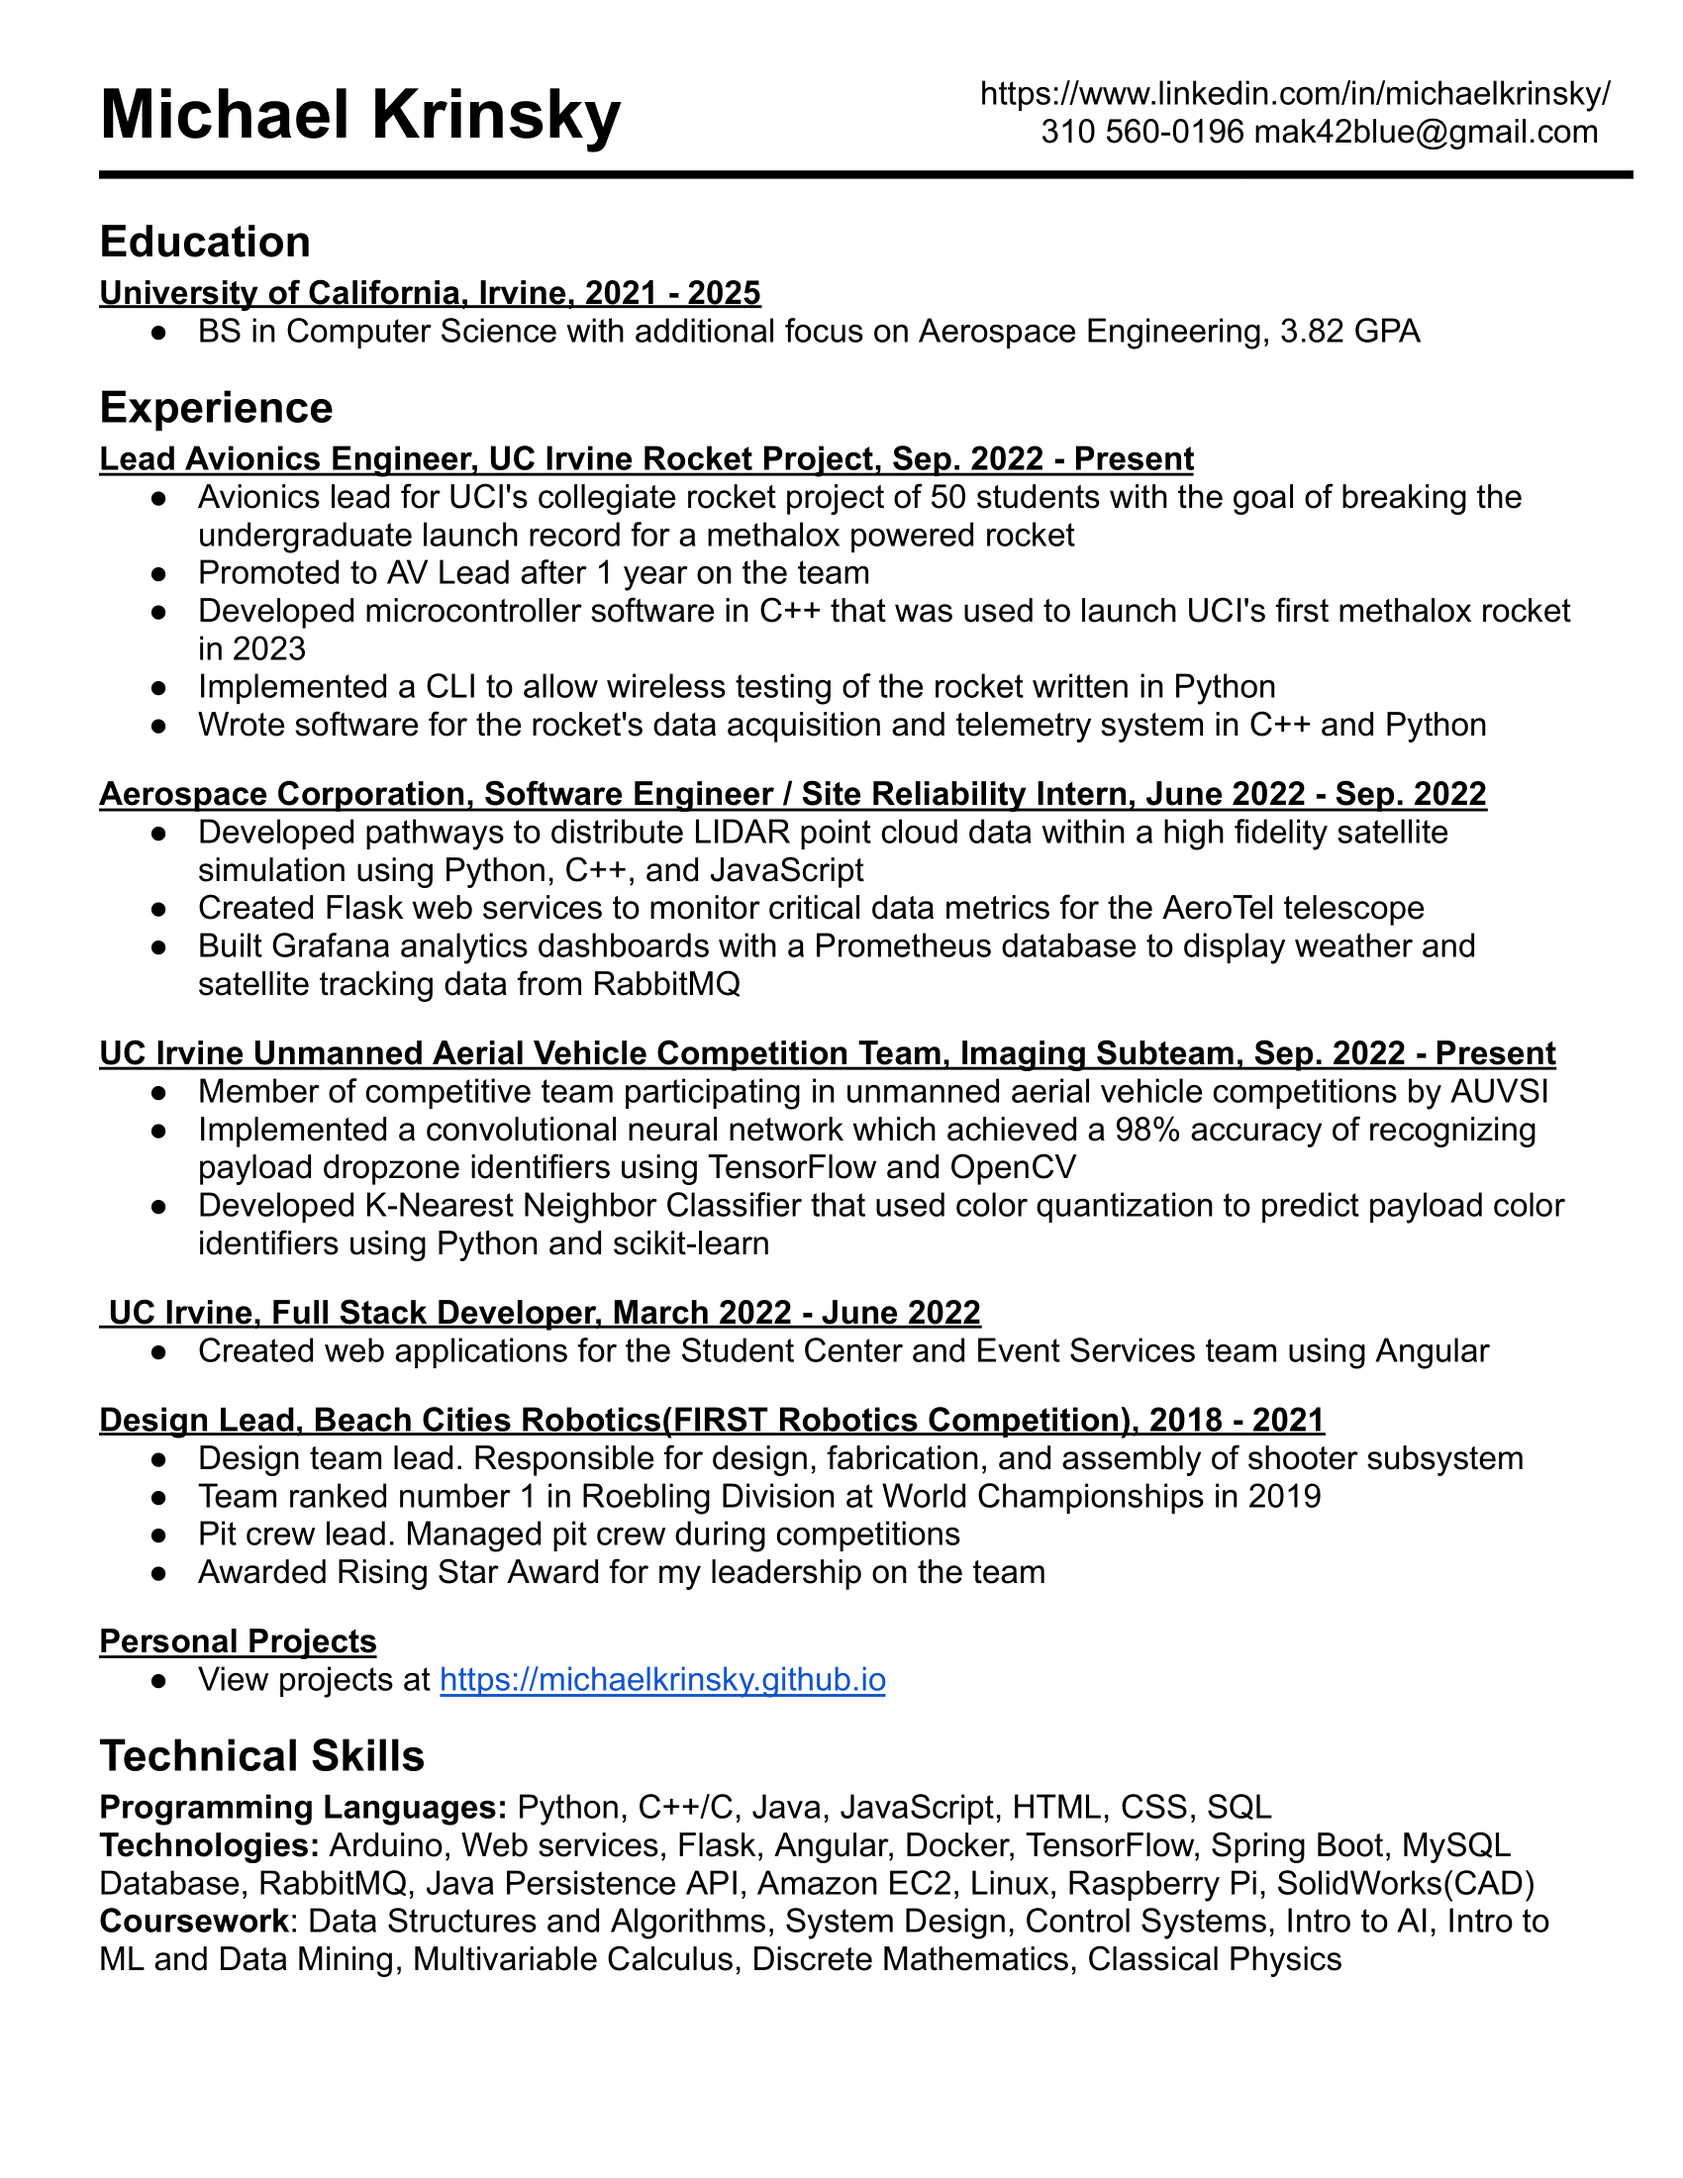
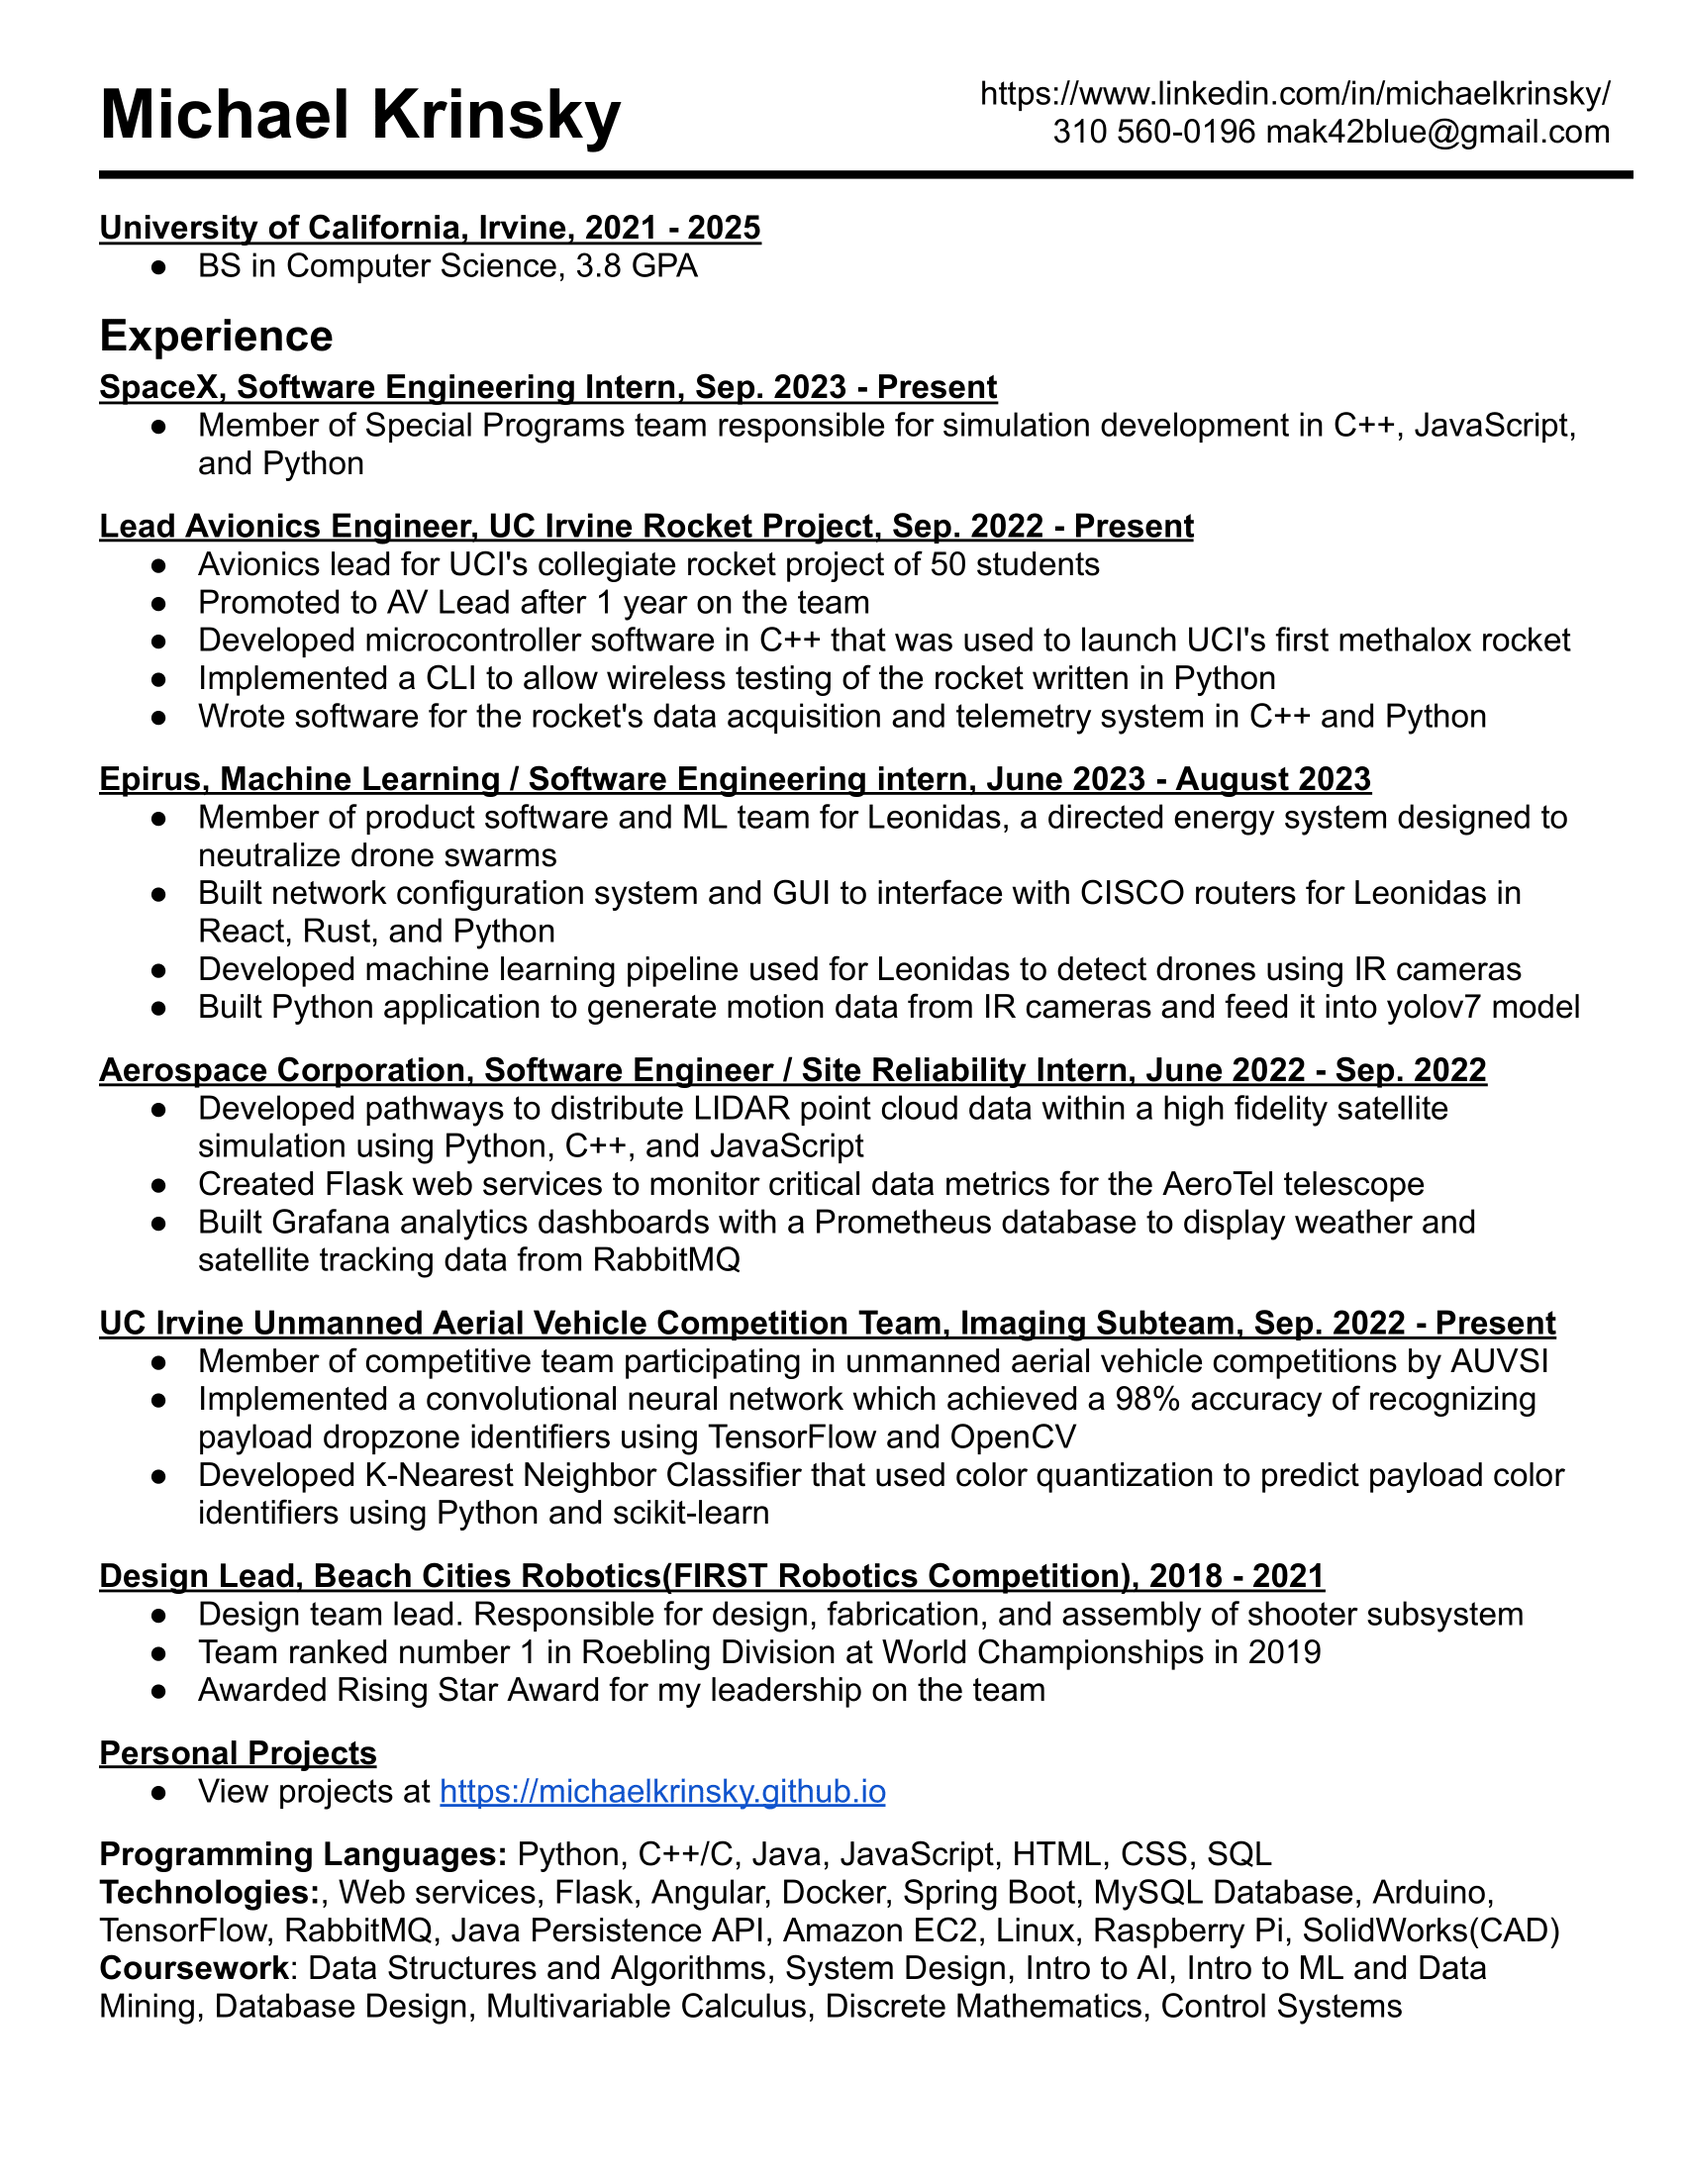
more changes

diff --git a/resume/index.html b/resume/index.html
@@ -40,7 +40,7 @@
             <th>-</th>
         </div>
         
-        <h1 class="centered">Last Updated: 5 / 10 / 23</h1>
+        <h1 class="centered">Last Updated: 9 / 1 / 23</h1>
         <div class="centered">
             <img src="resume.png" alt="Resume", style="width:60%; text-align:center">
         </div>
